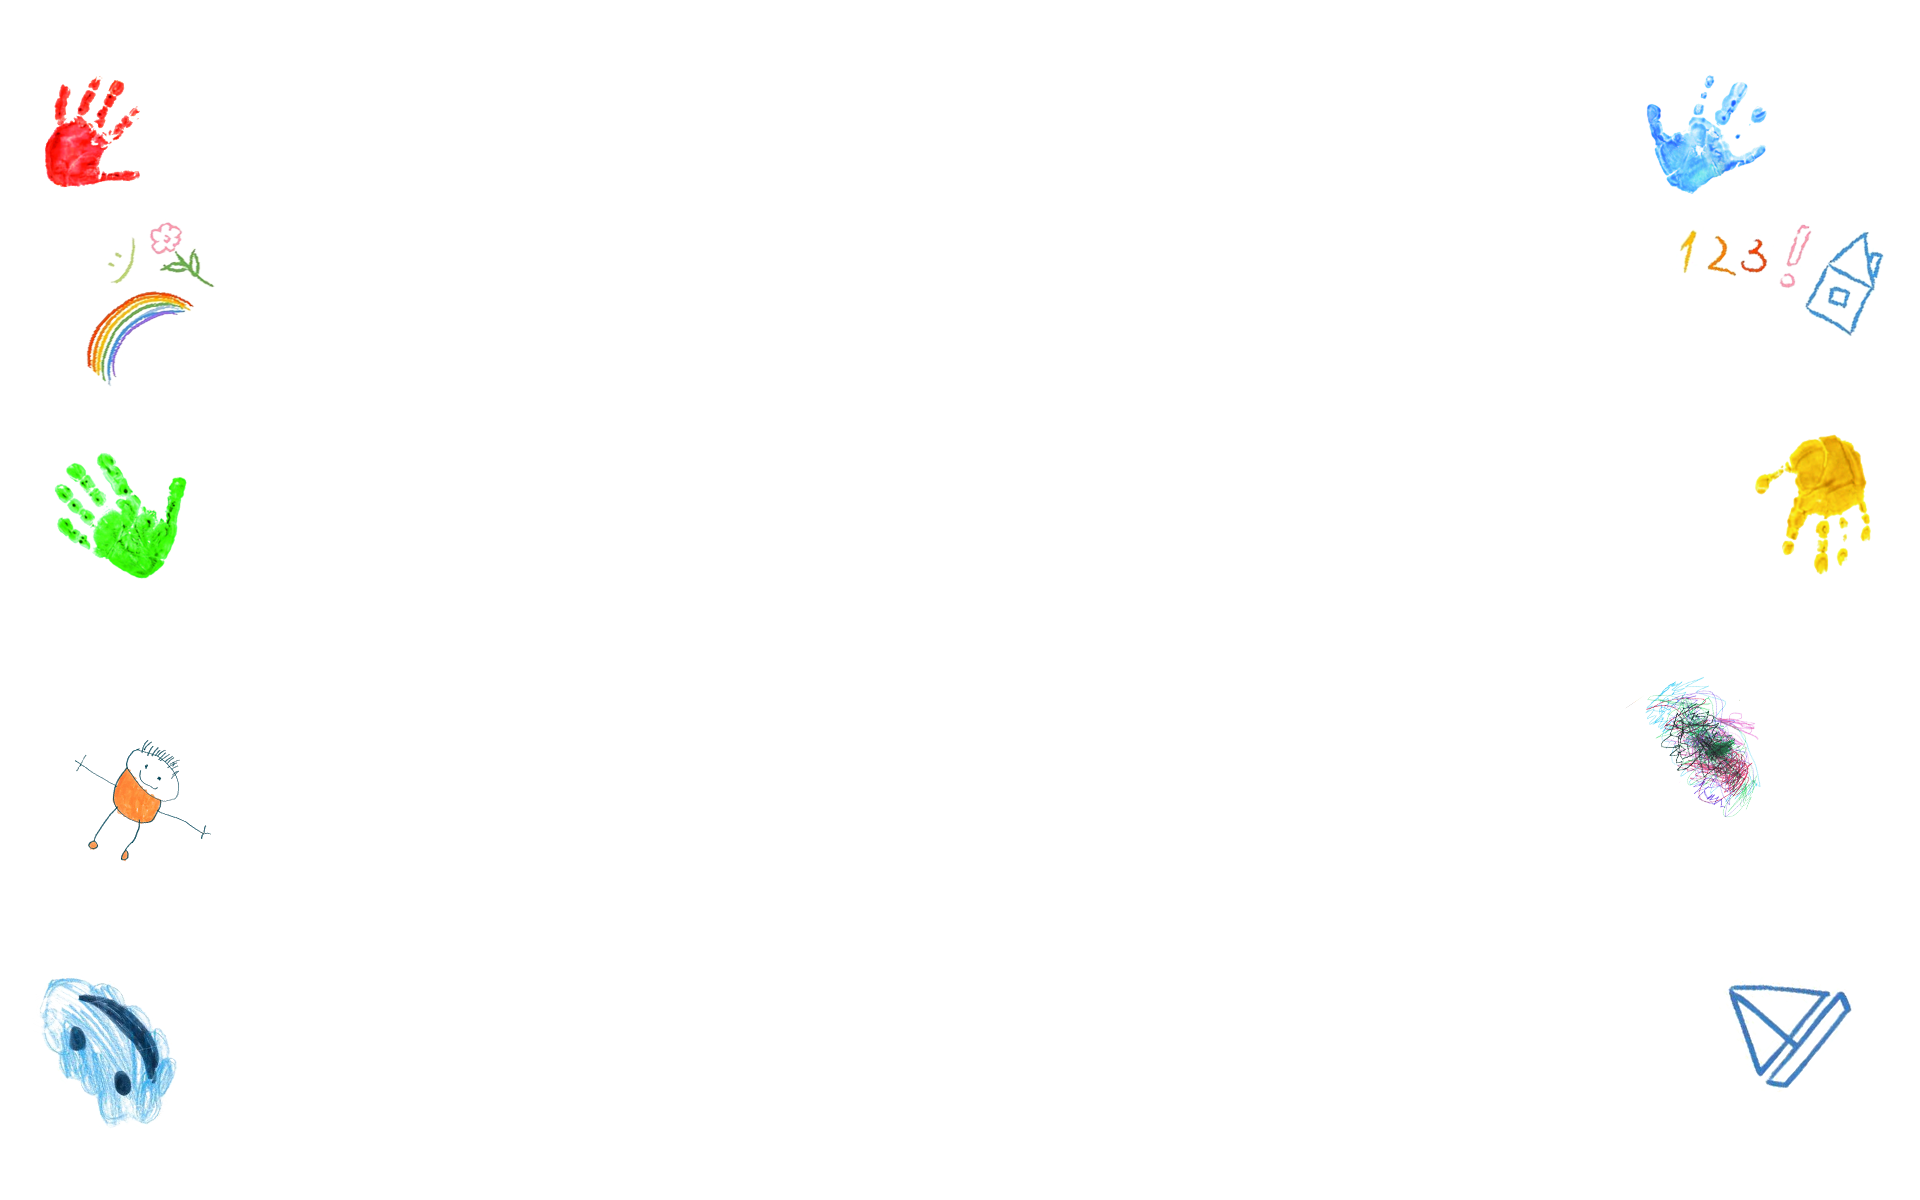
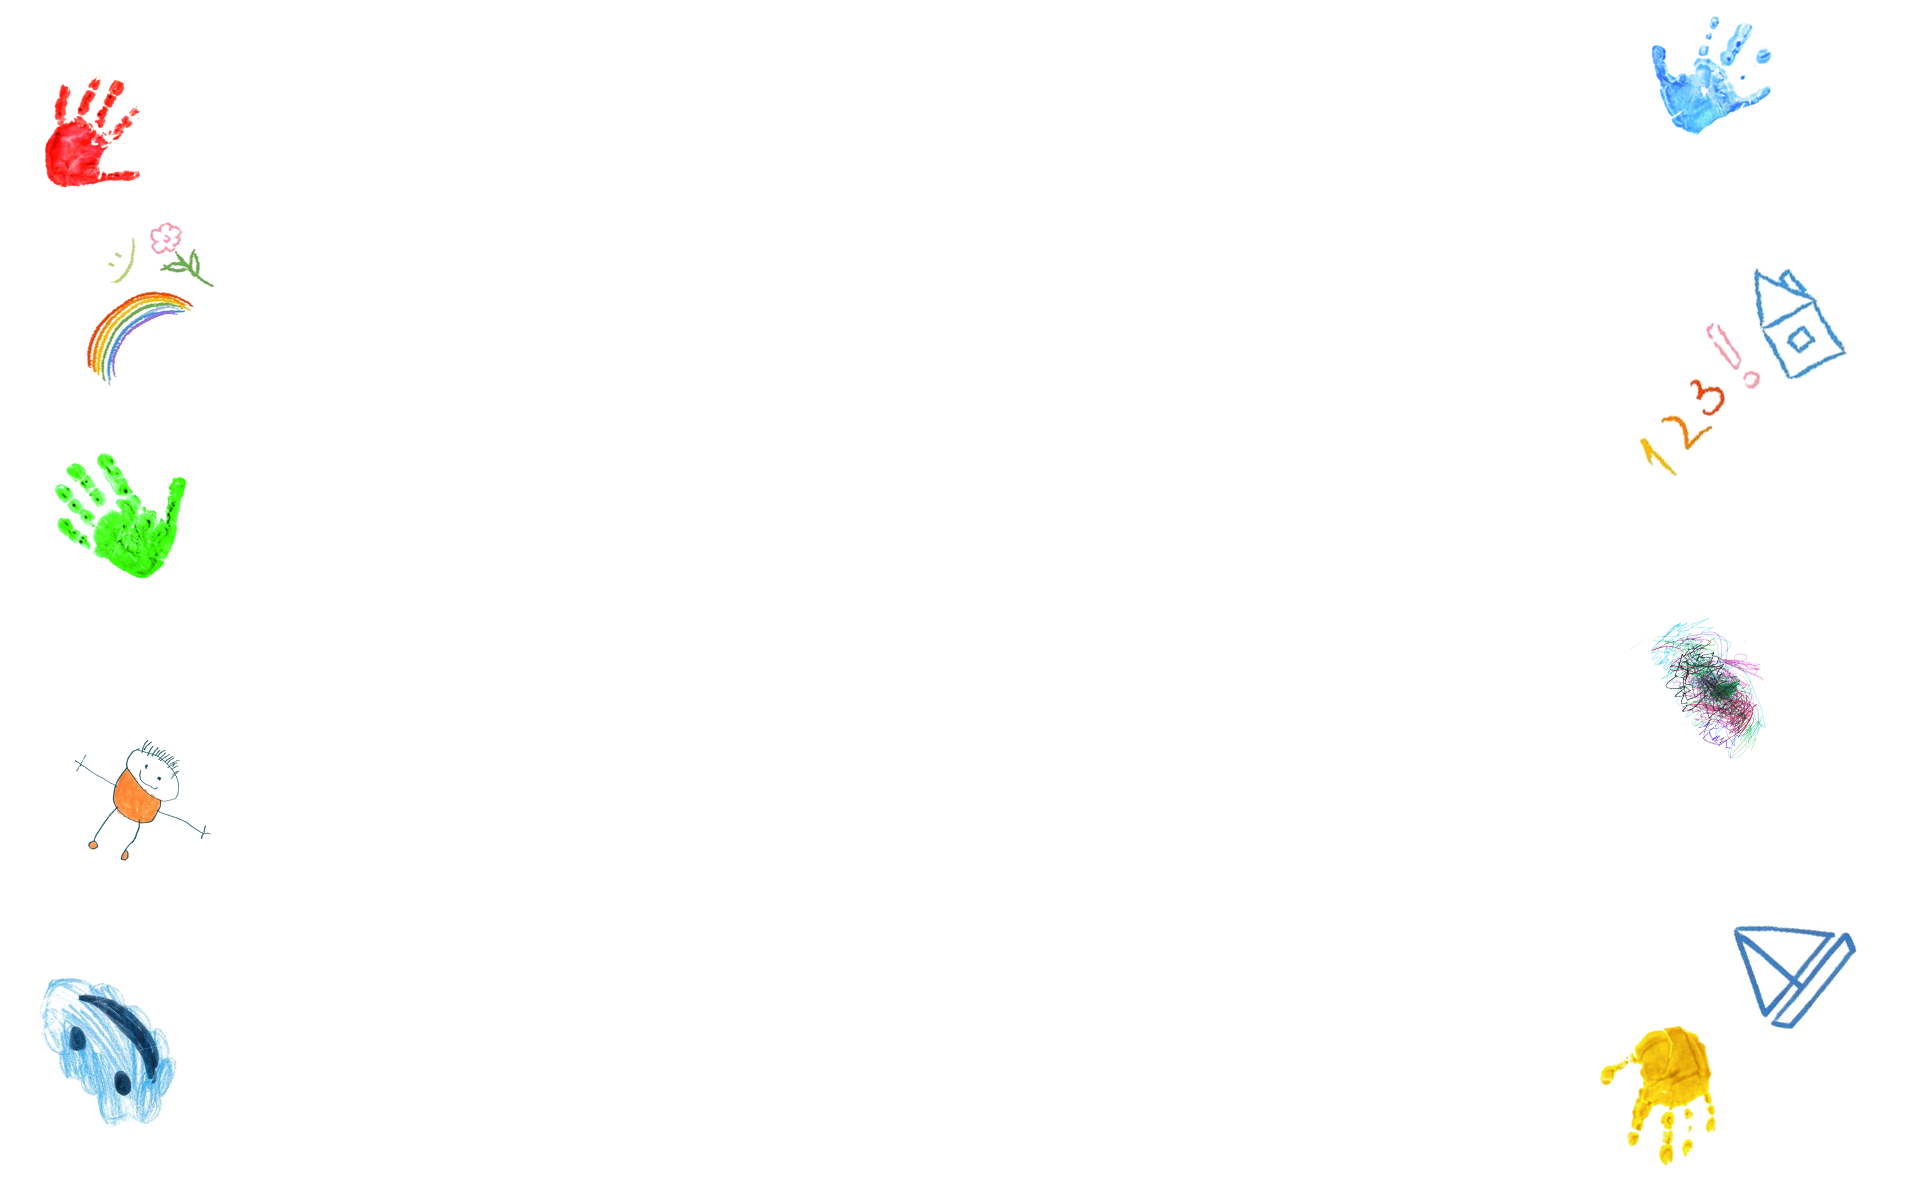
fix style + bg

diff --git a/styles/style.css b/styles/style.css
@@ -264,7 +264,7 @@ footer > div{
 }
 
 footer div img{
-  width: 19%;
+  width: 9%;
   height: 3%;
 }
 
